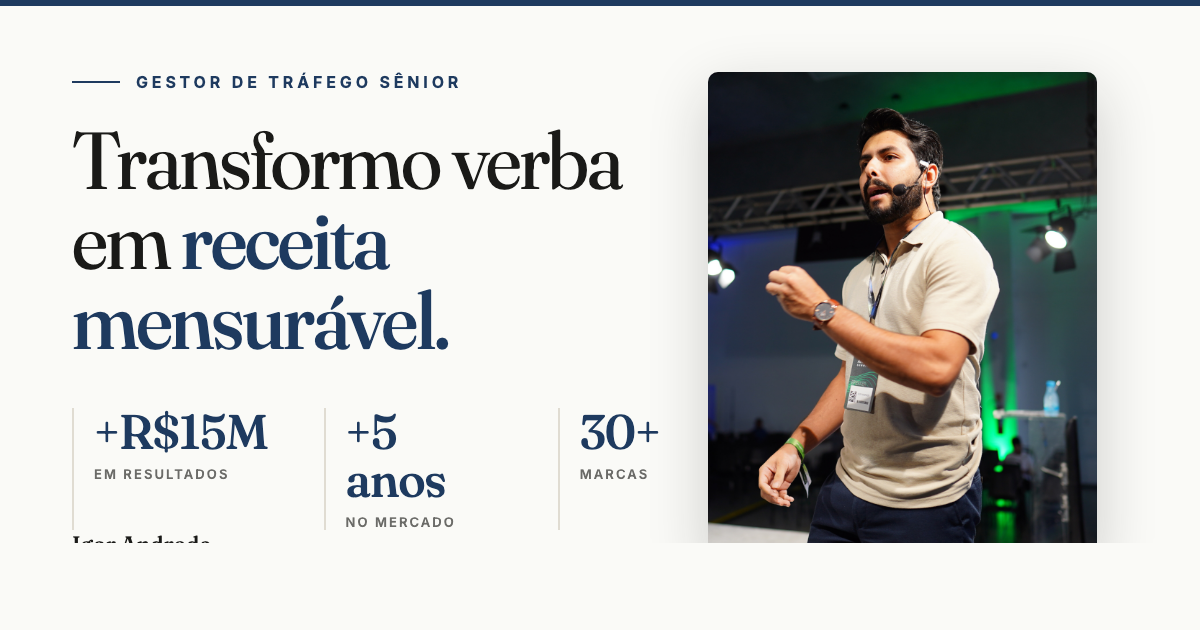
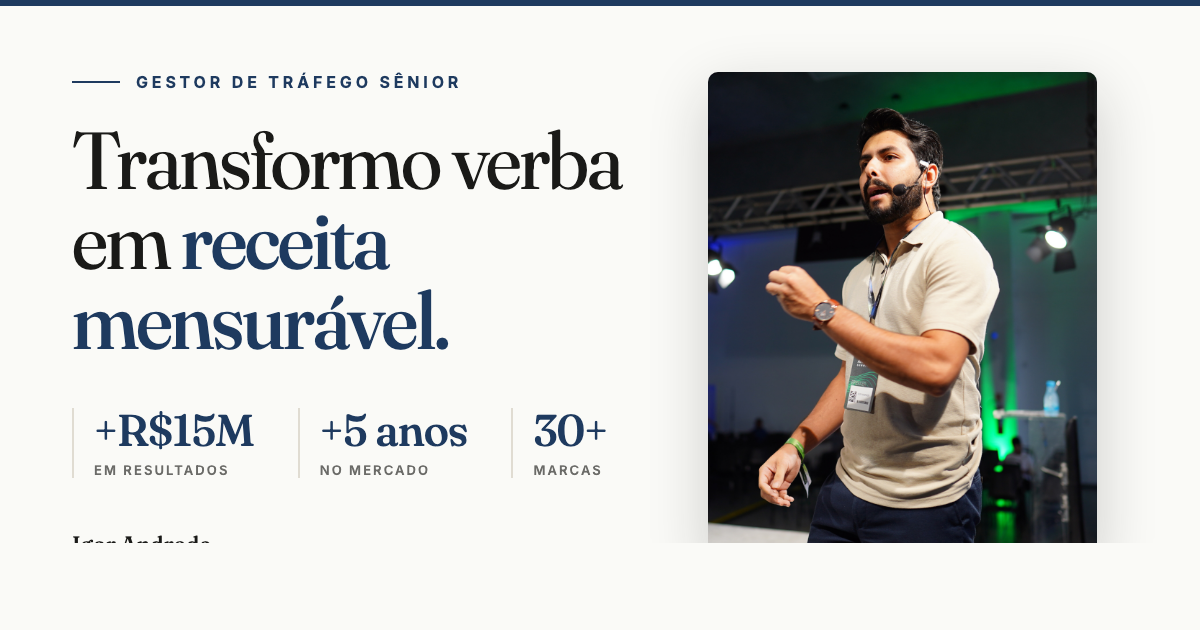
fix: OG image — evitar quebra de linha nos números KPI
white-space: nowrap nos .stat-num. +RM, +5 anos, 30+ ficam
cada um em uma linha única.

Changed region(s): [[0.0617, 0.6333, 0.4008, 0.8444], [0.4317, 0.6333, 0.555, 0.7841]]

diff --git a/og-image.html b/og-image.html
@@ -65,7 +65,7 @@
   }
   .stats {
     display: flex;
-    gap: 56px;
+    gap: 44px;
     margin-top: 48px;
   }
   .stat {
@@ -74,11 +74,12 @@
   }
   .stat-num {
     font-family: Fraunces, serif;
-    font-size: 48px;
+    font-size: 44px;
     color: #1e3a5f;
     line-height: 1;
     font-weight: 500;
     letter-spacing: -0.02em;
+    white-space: nowrap;
   }
   .stat-label {
     font-family: Inter, sans-serif;
